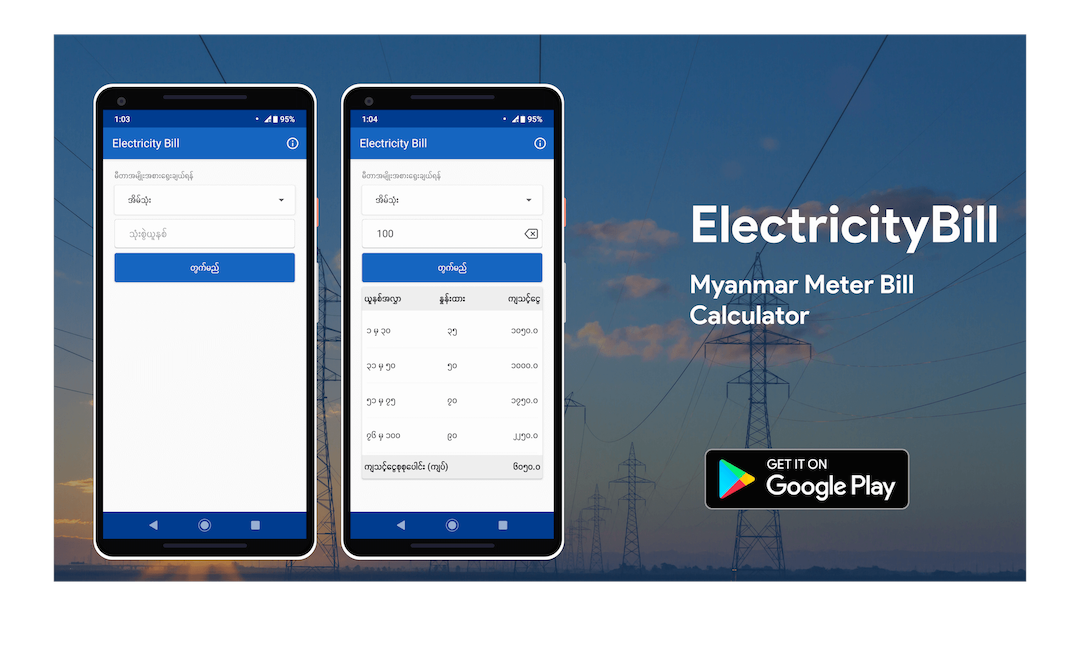
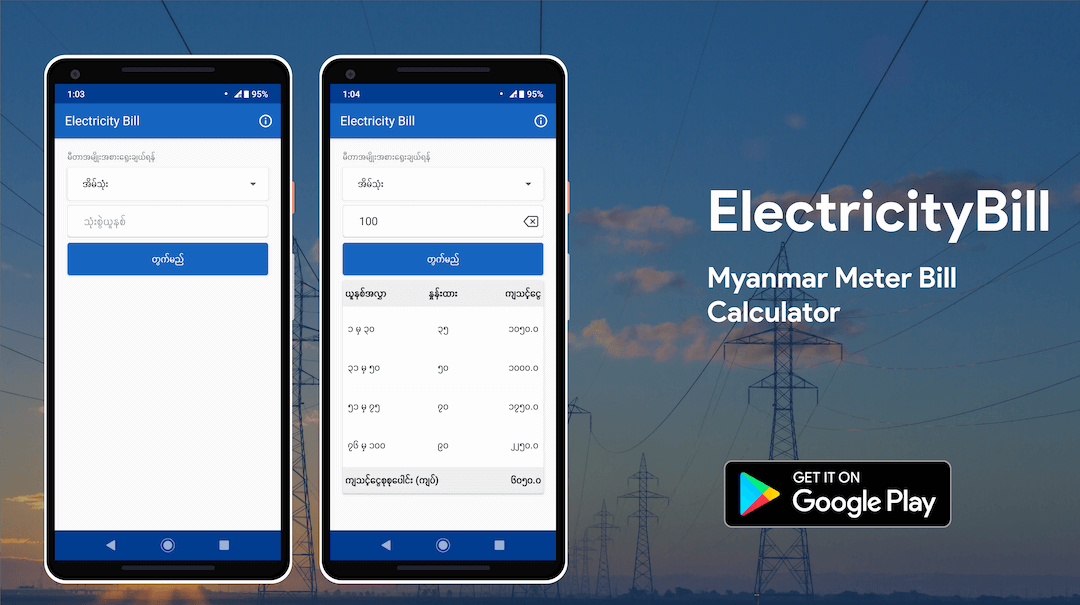
resize images

diff --git a/index.html b/index.html
@@ -33,7 +33,7 @@
 								</header>
 								<a href="#work" class="jumplink pic">
 									<span class="arrow icon solid fa-chevron-right"><span>See my work</span></span>
-									<img src="images/me.jpg" alt="" />
+									<img src="images/me.png" alt="" />
 								</a>
 							</article>
 
